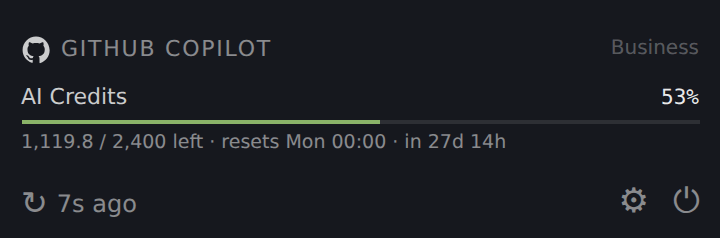
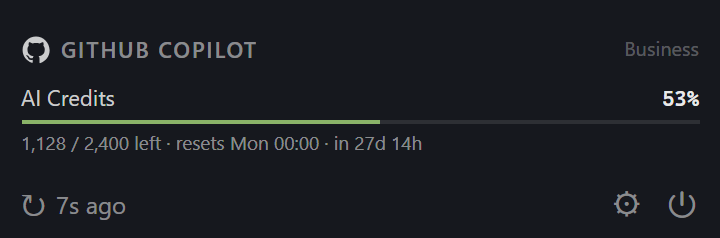
docs(screenshots): add multi-account popover shot
Adds a `multi-account` harness state (two connected Copilot accounts, one
renamed to its org) and wires the resulting screenshot into the README.
The harness now renders one-or-more cards per state, like the popover.

Also moves the screenshots CI job to windows-latest so its Chromium font
rendering matches a Windows maintainer's local `npm run screenshots` — the
verify check compares byte-for-byte, and fonts differ across OSes (this
re-renders the existing quota/pooled shots on Windows to match).

diff --git a/tools/screenshots/harness.tsx b/tools/screenshots/harness.tsx
@@ -1,7 +1,7 @@
-// Screenshot harness — renders the real popover card with canned data so the
+// Screenshot harness — renders the real popover card(s) with canned data so the
 // capture script (capture.mjs) can produce deterministic README screenshots
 // without the Tauri backend. Not part of the app build (index.html is the only
-// bundled entry). Add a state to STATES, reference it in capture.mjs.
+// bundled entry). Add a state to STATES, then reference it in capture.mjs.
 import ReactDOM from 'react-dom/client';
 import { TokenCard } from '../../src/components/TokenCard';
 import type { ServiceStatus } from '../../src/lib/api';
@@ -11,47 +11,58 @@ const H = 3_600_000;
 const iso = (ms: number) => new Date(Date.now() + ms).toISOString();
 const resetAt = iso((27 * 24 + 15) * H);
 
-const STATES: Record<string, ServiceStatus> = {
-  // GitHub Copilot Business with a per-user AI-Credits quota assigned.
-  quota: {
-    id: 'copilot:1',
-    name: 'GitHub Copilot',
+// A connected GitHub Copilot account with an AI-Credits quota at `usedPct`.
+// `id` only needs to start with "copilot:" (drives the GitHub icon); `label`
+// is the card header (the account's login by default, or a user rename).
+function copilotAccount(id: string, label: string, usedPct: number): ServiceStatus {
+  const total = 2400;
+  const used = Math.round(total * usedPct) / 100;
+  return {
+    id,
+    name: label,
     plan: 'Business',
     state: 'active',
     quotas: [
-      {
-        window: 'monthly',
-        label: 'AI Credits',
-        used: 1280.2,
-        total: 2400,
-        unit: 'requests',
-        resets_at: resetAt,
-      },
+      { window: 'monthly', label: 'AI Credits', used, total, unit: 'requests', resets_at: resetAt },
     ],
     copilot_usage: {
       mode: 'ai_credits_capped',
       label: 'AI Credits',
-      entitlement: 2400,
-      remaining: 1119.8,
-      used: 1280.2,
-      percent_remaining: 46.66,
+      entitlement: total,
+      remaining: total - used,
+      used,
+      percent_remaining: 100 - usedPct,
       overage_permitted: false,
       reset_date: resetAt,
     },
-  },
+  };
+}
+
+// Each state is one or more service cards, rendered stacked like the popover.
+const STATES: Record<string, ServiceStatus[]> = {
+  // Business with a per-user AI-Credits quota assigned.
+  quota: [copilotAccount('copilot:1', 'GitHub Copilot', 53)],
   // Org-pooled credits — no per-user quota to show.
-  pooled: {
-    id: 'copilot:1',
-    name: 'GitHub Copilot',
-    plan: 'Business',
-    state: 'active',
-    quotas: [],
-    copilot_usage: { mode: 'ai_credits_pooled', reset_date: resetAt },
-  },
+  pooled: [
+    {
+      id: 'copilot:1',
+      name: 'GitHub Copilot',
+      plan: 'Business',
+      state: 'active',
+      quotas: [],
+      copilot_usage: { mode: 'ai_credits_pooled', reset_date: resetAt },
+    },
+  ],
+  // Two connected GitHub accounts — one card each, with their own usage. The
+  // second is renamed to its org; the first keeps its login.
+  'multi-account': [
+    copilotAccount('copilot:1', 'octocat', 53),
+    copilotAccount('copilot:2', 'Acme Corp', 88),
+  ],
 };
 
 const which = new URLSearchParams(location.search).get('state') ?? 'quota';
-const service = STATES[which] ?? STATES.quota;
+const services = STATES[which] ?? STATES.quota;
 
 function Footer() {
   return (
@@ -77,7 +88,9 @@ function Footer() {
 ReactDOM.createRoot(document.getElementById('root')!).render(
   <div id="shot" className="bg-window-opaque text-fg-primary" style={{ width: 360 }}>
     <div className="px-3.5 pt-3.5 pb-2.5">
-      <TokenCard service={service} warnPct={80} critPct={95} />
+      {services.map((service) => (
+        <TokenCard key={service.id} service={service} warnPct={80} critPct={95} />
+      ))}
       <Footer />
     </div>
   </div>,

diff --git a/README.md b/README.md
@@ -67,6 +67,12 @@ It is built for developers on Claude Pro/Max and Copilot Pro/Pro+ who actually u
 
 <p align="center"><sub>GitHub Copilot Business — a per-user AI-Credits quota when one is assigned &nbsp;·&nbsp; org-pooled credits, where there's no per-user usage to show.</sub></p>
 
+<p align="center">
+  <img src="docs/screenshots/copilot-multi-account.png" alt="Two GitHub Copilot accounts, one card each with its own quota" width="360" />
+</p>
+
+<p align="center"><sub>Multiple GitHub Copilot accounts — one card each, each renameable (here the second is labelled by its org).</sub></p>
+
 ---
 
 ## Features
